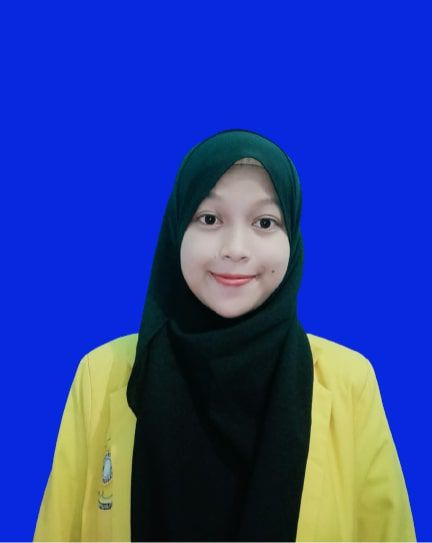
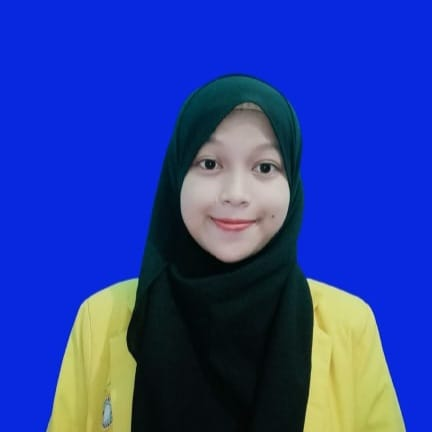
tambah dan edit foto pemimbing

diff --git a/application/views/page/pembuat.php b/application/views/page/pembuat.php
@@ -5,7 +5,7 @@
 				<ul class="splide__list" id="splide02-list" style="transform: translateX(-2273px);">
 					<li class="splide__slide splide__slide--clone" style="margin-right: 16px; width: 381.5px;">
 						<div class="card">
-							<img src="<?= base_url()?>/assets/img/foto/pengembang/mardiah.jpg" class="card-img-top" alt="image">
+							<img src="<?= base_url() ?>/assets/img/foto/pengembang/mardiah.jpg" class="card-img-top" alt="image">
 							<div class="card-body">
 								<h5 class="card-title">Mardiah Afifa</h5>
 								<p class="card-text">
@@ -16,7 +16,7 @@
 					</li>
 					<li class="splide__slide splide__slide--clone" style="margin-right: 16px; width: 381.5px;">
 						<div class="card">
-							<img src="<?= base_url()?>/assets/img/foto/pengembang/rafli.jpg" class="card-img-top" alt="image">
+							<img src="<?= base_url() ?>/assets/img/foto/pengembang/rafli.jpg" class="card-img-top" alt="image">
 							<div class="card-body">
 								<h5 class="card-title">Rafli Fandu Ramadhani</h5>
 								<p class="card-text">
@@ -27,7 +27,7 @@
 					</li>
 					<li class="splide__slide splide__slide--clone" style="margin-right: 16px; width: 381.5px;">
 						<div class="card">
-							<img src="<?= base_url()?>/assets/img/foto/pengembang/kamilah.jpg" class="card-img-top" alt="image">
+							<img src="<?= base_url() ?>/assets/img/foto/pengembang/kamilah.jpg" class="card-img-top" alt="image">
 							<div class="card-body">
 								<h5 class="card-title">Kamilah Nada Maisa</h5>
 								<p class="card-text">
@@ -38,7 +38,7 @@
 					</li>
 					<li class="splide__slide splide__slide--clone" style="margin-right: 16px; width: 381.5px;">
 						<div class="card">
-							<img src="<?= base_url()?>/assets/img/foto/pengembang/chosmas.jpg" class="card-img-top" alt="image">
+							<img src="<?= base_url() ?>/assets/img/foto/pengembang/chosmas.jpg" class="card-img-top" alt="image">
 							<div class="card-body">
 								<h5 class="card-title">Chosmas Marzuki</h5>
 								<p class="card-text">
@@ -49,11 +49,22 @@
 					</li>
 					<li class="splide__slide" id="splide02-slide01" aria-hidden="true" tabindex="-1" style="margin-right: 16px; width: 381.5px;">
 						<div class="card">
-							<img src="<?= base_url()?>/assets/img/foto/pengembang/anita.jpg" class="card-img-top" alt="image">
+							<img src="<?= base_url() ?>/assets/img/foto/pengembang/anita.jpg" class="card-img-top" alt="image">
 							<div class="card-body">
 								<h5 class="card-title">Anita Septia</h5>
 								<p class="card-text">
 									Anita Septia Mahasiswa Pendidikan Masyarakat Universitas Sriwijaya Angkatan 2019 , selama saya aktif berkuliah saya mengikuti berbagai kegiatan sosial dan organisasi kampus maupun luar kampus. Saya merupakan salah satu pengembang aplikasi Edscience
+								</p>
+							</div>
+						</div>
+					</li>
+					<li class="splide__slide" id="splide02-slide01" aria-hidden="true" tabindex="-1" style="margin-right: 16px; width: 381.5px;">
+						<div class="card">
+							<img src="<?= base_url() ?>/assets/img/foto/pengembang/meilinda.jpg" class="card-img-top" alt="image">
+							<div class="card-body">
+								<h5 class="card-title">Meilinda</h5>
+								<p class="card-text">
+									Dr. Meilinda, M.Pd, Dosen Pendidikan Biologi Universitas Sriwijaya. Saat ini merupakan dosen pembimbing PKM-KC aplikasi EDScience
 								</p>
 							</div>
 						</div>
